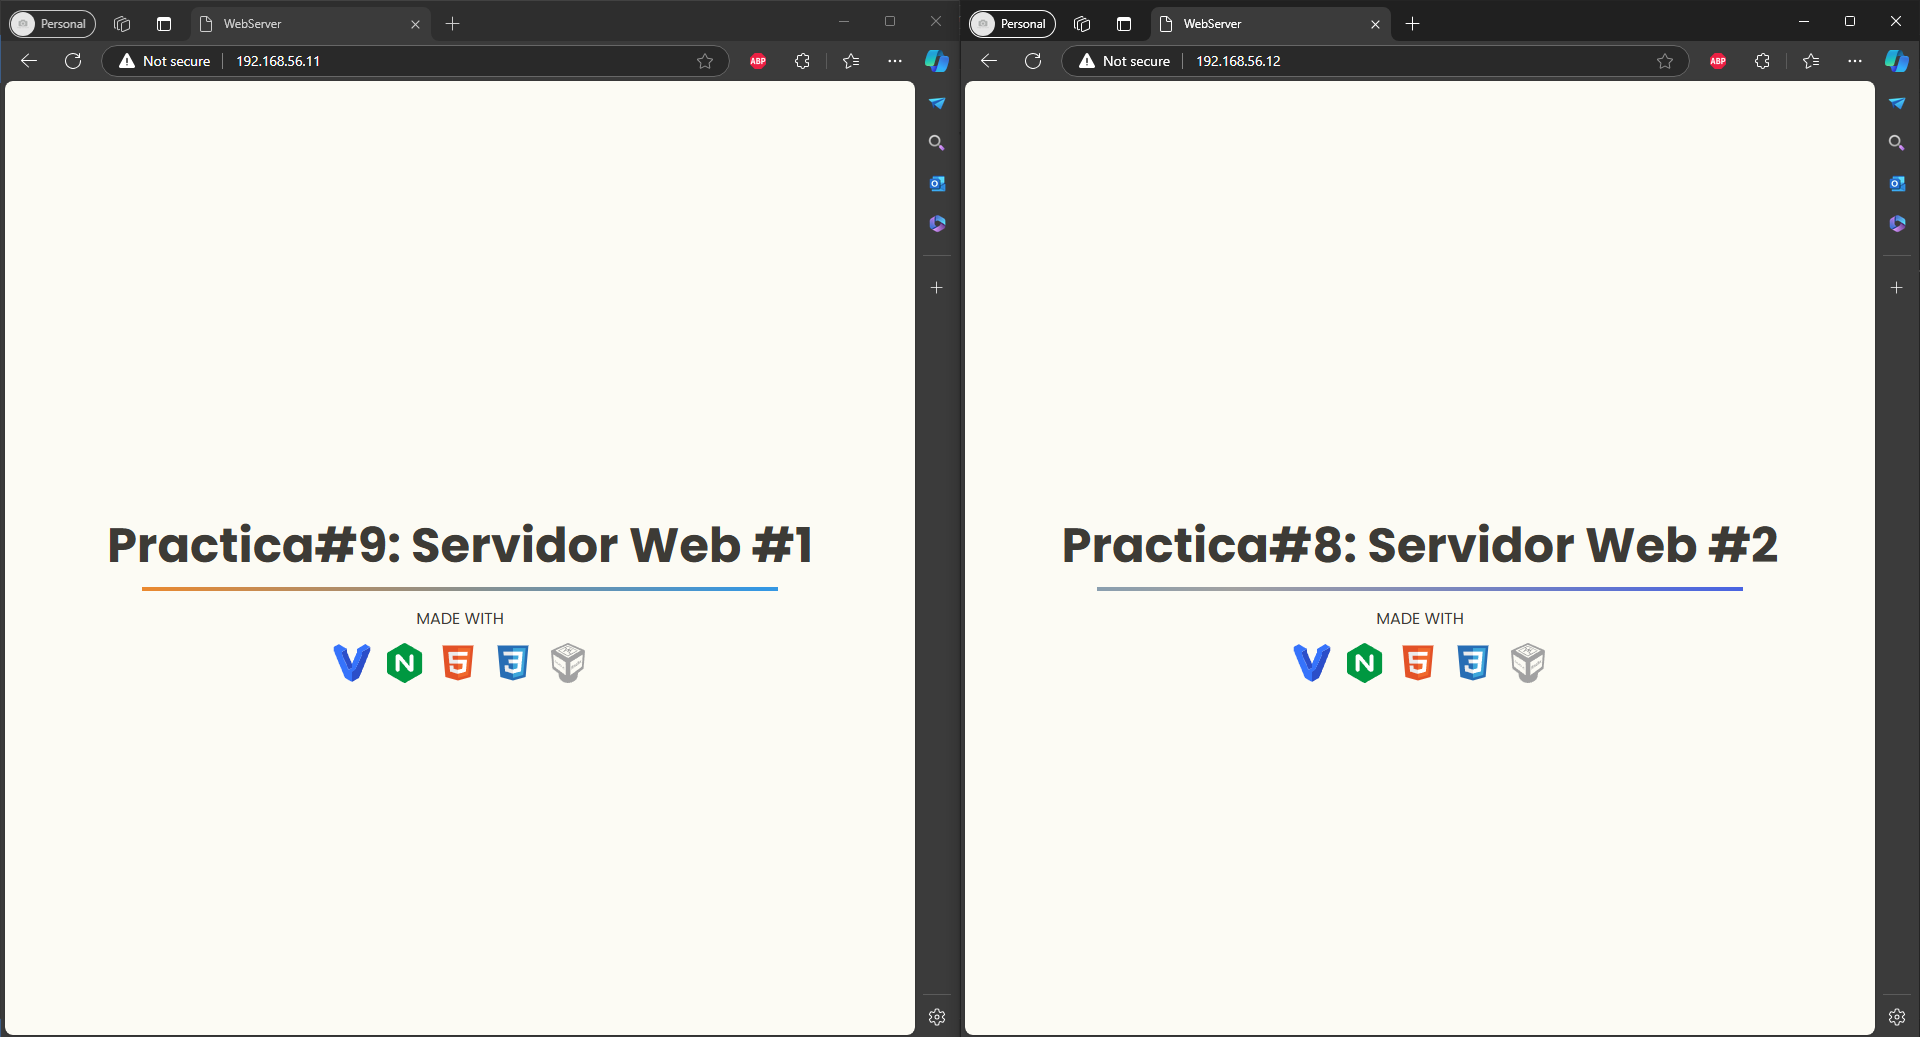
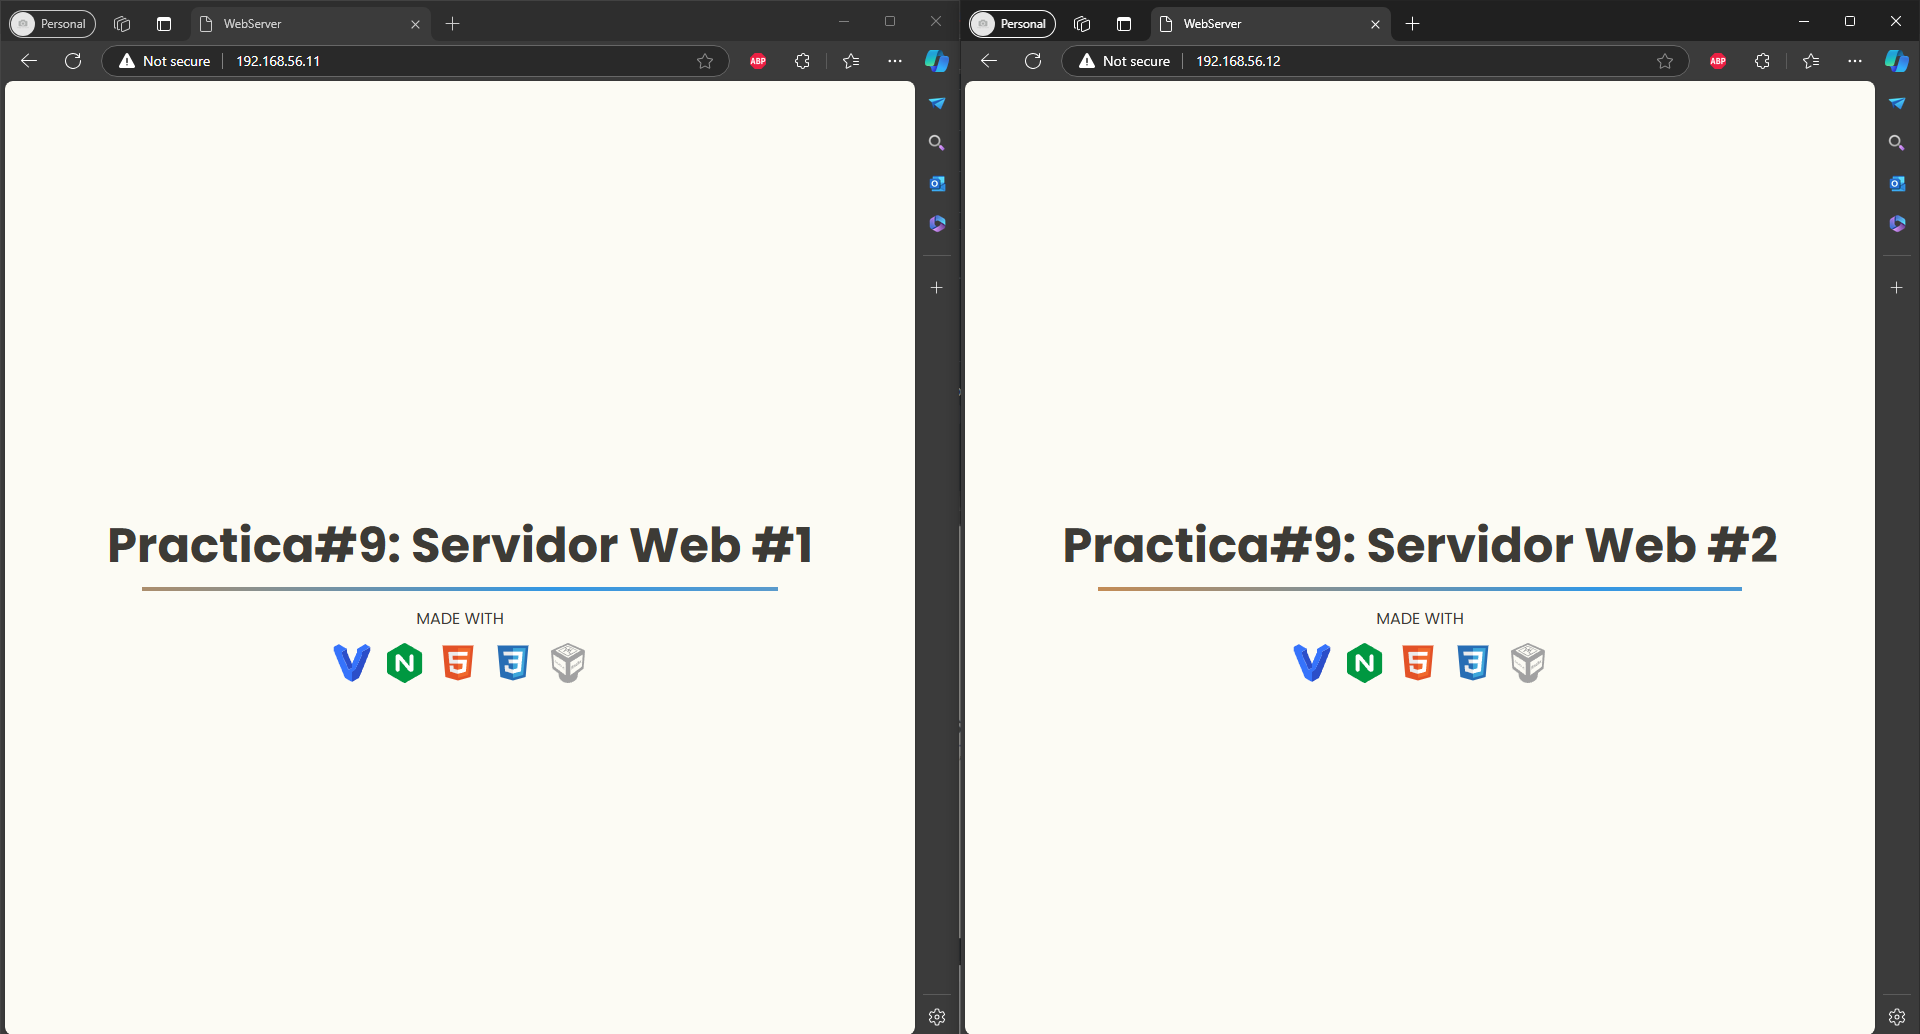
Change stuff

diff --git a/Web2/src/index.html b/Web2/src/index.html
@@ -12,7 +12,7 @@
     <div class="container">
         <div class="content">
             <h1 class="main-title">
-                Practica#8: Servidor Web #2
+                Practica#9: Servidor Web #2
             </h1>
             <hr class="gradient-hr">
             <div class="icons-container">
